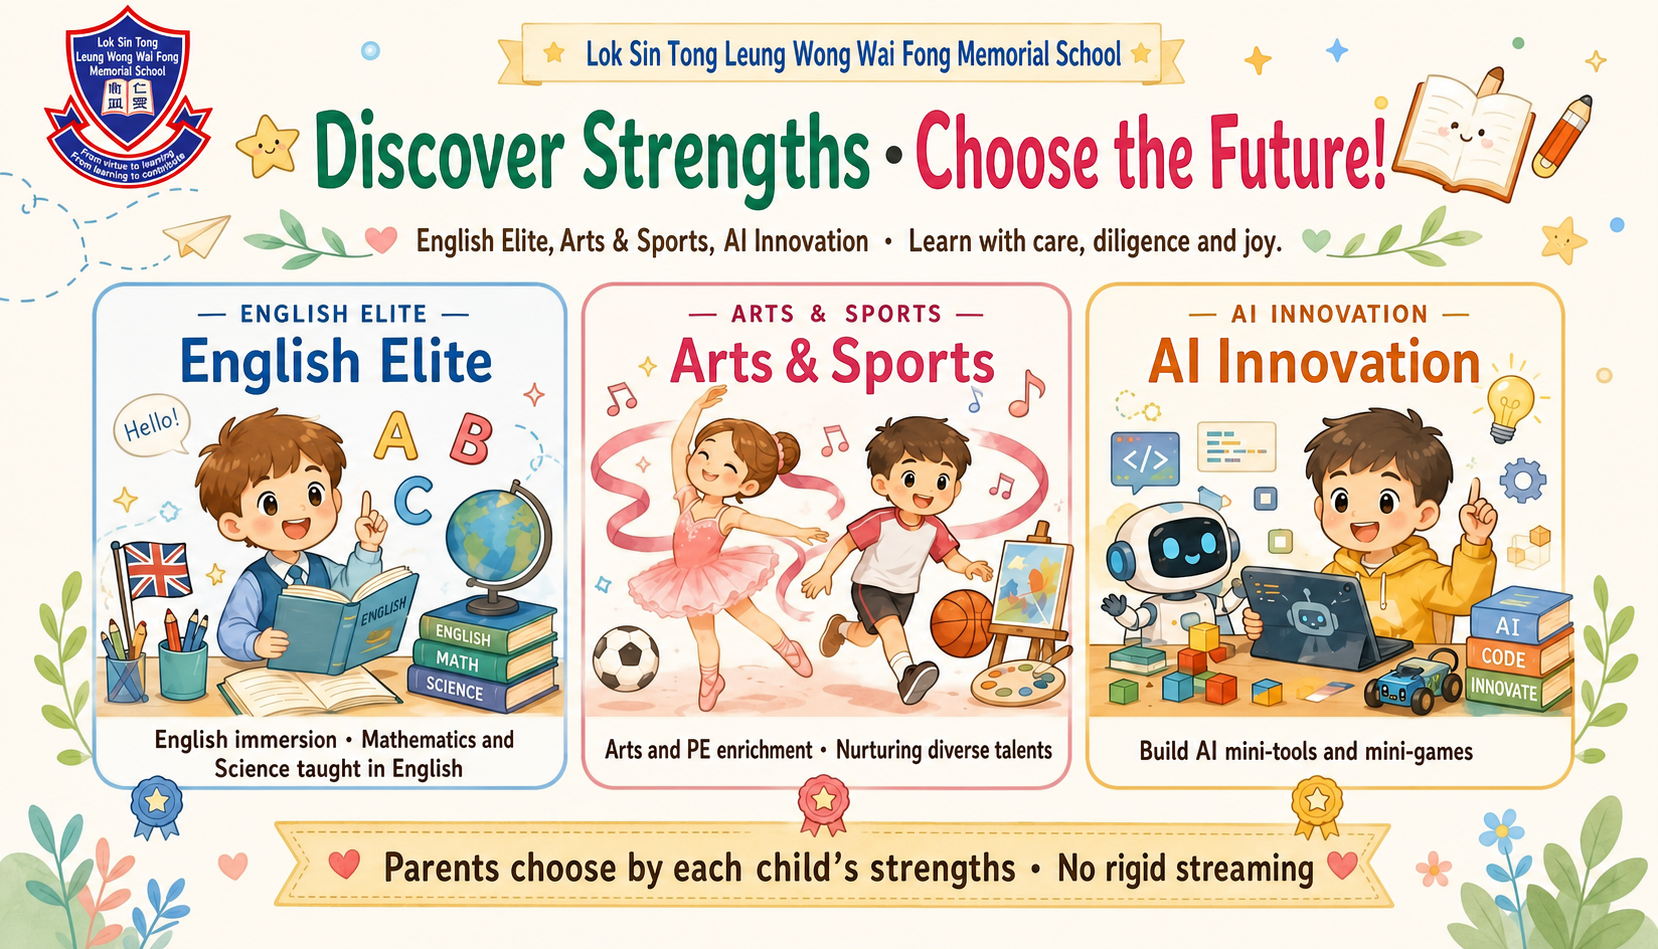
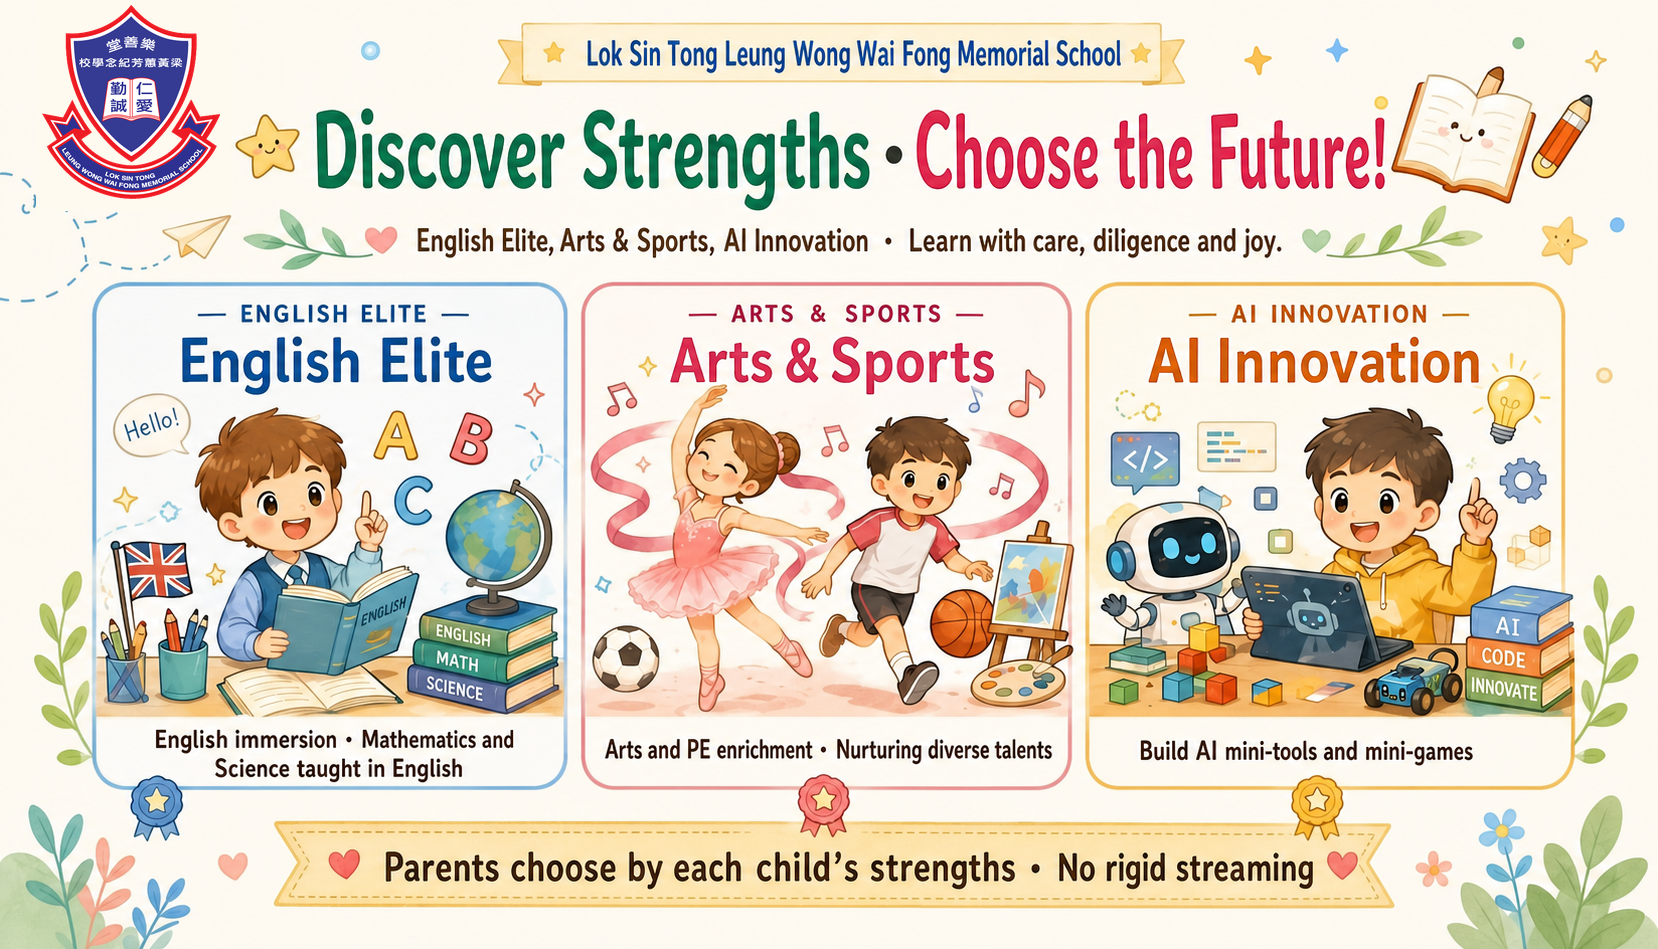
Restore official badge on English slide 6

Changed region(s): [[0.0308, 0.0, 0.1538, 0.2139]]

diff --git a/AI_INFINITY_v6-en.html b/AI_INFINITY_v6-en.html
@@ -1608,7 +1608,7 @@ body .slide[data-slide="11"] .card p.body {
 <!-- ===== v6 SLIDE 6 — Three streams: Discover strengths, choose the future (IMAGE2 render) ===== -->
 <section class="slide" data-slide="6" data-section="P1 NEW STREAMING · THREE CLASSES">
   <div class="slide-inner" style="padding:0; gap:0; max-width:none; align-items:center; justify-content:center;">
-    <img src="photos/slide6_en.png?v=20260517-image2" alt="Discover Strengths · Choose the Future! English Elite, Arts & Sports, AI Innovation. Parents choose by each child's strengths. No rigid streaming." style="width:100%; height:100%; object-fit:contain;">
+    <img src="photos/slide6_en.png?v=20260517-badgefix" alt="Discover Strengths · Choose the Future! English Elite, Arts & Sports, AI Innovation. Parents choose by each child's strengths. No rigid streaming." style="width:100%; height:100%; object-fit:contain;">
   </div>
 </section>
 
